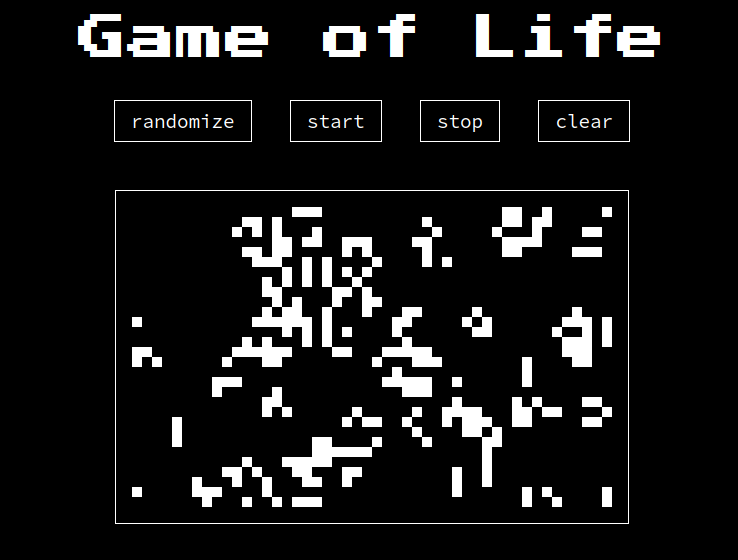
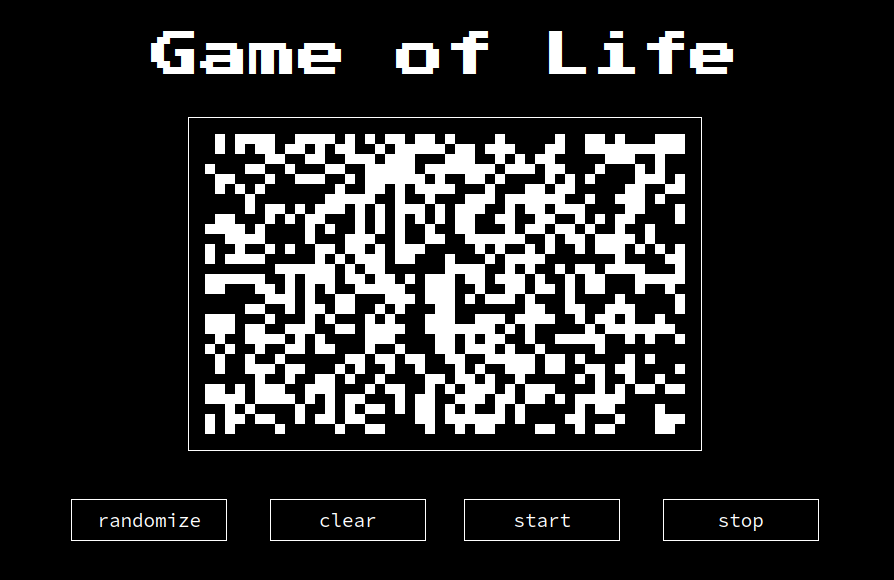
styles: modified from web-page

diff --git a/style.css b/style.css
@@ -8,15 +8,29 @@ html {
 }
 
 header {
-    font-family: 'Press Start 2P', serif;
+    display: flex;
     font-size: 1.5rem;
-    text-align: center;
-    margin-top: 1rem;
+    flex-direction: column;
+    align-items: center;
 }
 
-@media only screen and (max-width: 767px) {
+h1, h2 {
+    font-family: 'Press Start 2P', serif;
+}
+
+@media only screen and (max-width: 1100px) {
     header {
-        font-size: 0.8rem;
+        font-size: 1rem;
+    }
+
+    a {
+        position: relative;
+        margin: 0.5rem 0;
+    }
+
+    h1 {
+        margin-inline: 1.5rem;
+        text-align: center;
     }
 }
 
@@ -78,7 +92,8 @@ header {
 .gameCanvas {
     display: flex;
     border: 1px solid white;
-    margin: 3rem auto;
+    margin: auto;
+    margin-bottom: 3rem;
     padding: 1rem 1rem;
     width: 80%;
     max-width: 480px;
@@ -87,5 +102,31 @@ header {
 @media only screen and (max-width: 767px) {
     .gameCanvas {
         margin: 2rem auto;
+    }
+}
+
+.rules {
+    text-align: center;
+    margin: 2rem auto;
+    margin-top: 5rem;
+    width: 80%;
+    max-width: 480px;
+    list-style-type: none;
+    padding: 0;
+}
+
+li {
+    font-family: 'Source Code Pro', monospace;
+    font-size: 1.3rem;
+    margin-bottom: 1rem;
+}
+
+@media only screen and (max-width: 767px) {
+    .rules {
+        margin-top: 2rem;
+    }
+
+    li {
+        font-size: 1em;
     }
 }

diff --git a/index.html b/index.html
@@ -32,6 +32,15 @@
                     <button class="stopButton">stop</button>
                 </div>
             </section>
+            <section class="rules">
+                <h2>Rules</h2>
+                <ol>
+                    <li>Any live cell with fewer than two live neighbours dies, as if by underpopulation.</li>
+                    <li>Any live cell with two or three live neighbours lives on to the next generation.</li>
+                    <li>Any live cell with more than three live neighbours dies, as if by overpopulation.</li>
+                    <li>Any dead cell with exactly three live neighbours becomes a live cell, as if by reproduction.</li>
+                </ol>
+            </section>
         </main>
     </div>
     <script src="game.js"></script>
